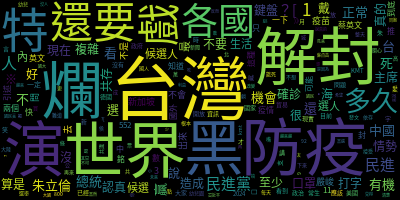
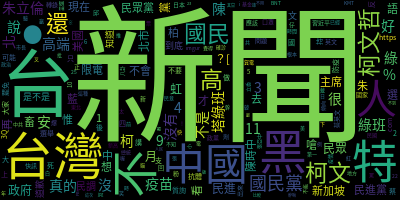
finalll????

diff --git a/wdcloud.py b/wdcloud.py
@@ -11,7 +11,7 @@ from PIL import Image
 import jieba
 import numpy as np
 from collections import Counter
-file = open("hateee.json",'r',encoding='utf-8')
+file = open("HatePolitics.json",'r',encoding='utf-8')
 papers = " "
 ###U have to follow the step to open the distinct file
 ###def wdcloud(file):
@@ -43,7 +43,7 @@ sorted(Counter(terms).items(), key=lambda x:x[1], reverse=True)
 list_terms=Counter(terms)
 
 keyword = "政治"
-f=open("ccount.json","w",encoding="utf-8")
+f=open("temp.json","w",encoding="utf-8")
 nodes=list()
 links=list()
 i=0
@@ -75,8 +75,12 @@ for key,value in list_terms.items():
         color = 'rgba(250, 238, 127,0.65)'
     else:
         color = 'rgba(255, 247, 156,0.6)'
-    nodes.append({"id": key, "group": group, "times": value, "color": color })
-    links.append({"source": keyword, "target": key, "value": group})
+    if i < 20:
+        nodes.append({"id": key, "group": group, "times": value, "color": color })
+        links.append({"source": keyword, "target": key, "value": group})
+    else:
+        break
+    i=i+1
 sortna = sorted(nodes, key=lambda k: k['times'], reverse=True)
 sortga = sorted(links, key=lambda k: k['value'], reverse=True)
 json_data = {"nodes": sortna, "links": sortga}
